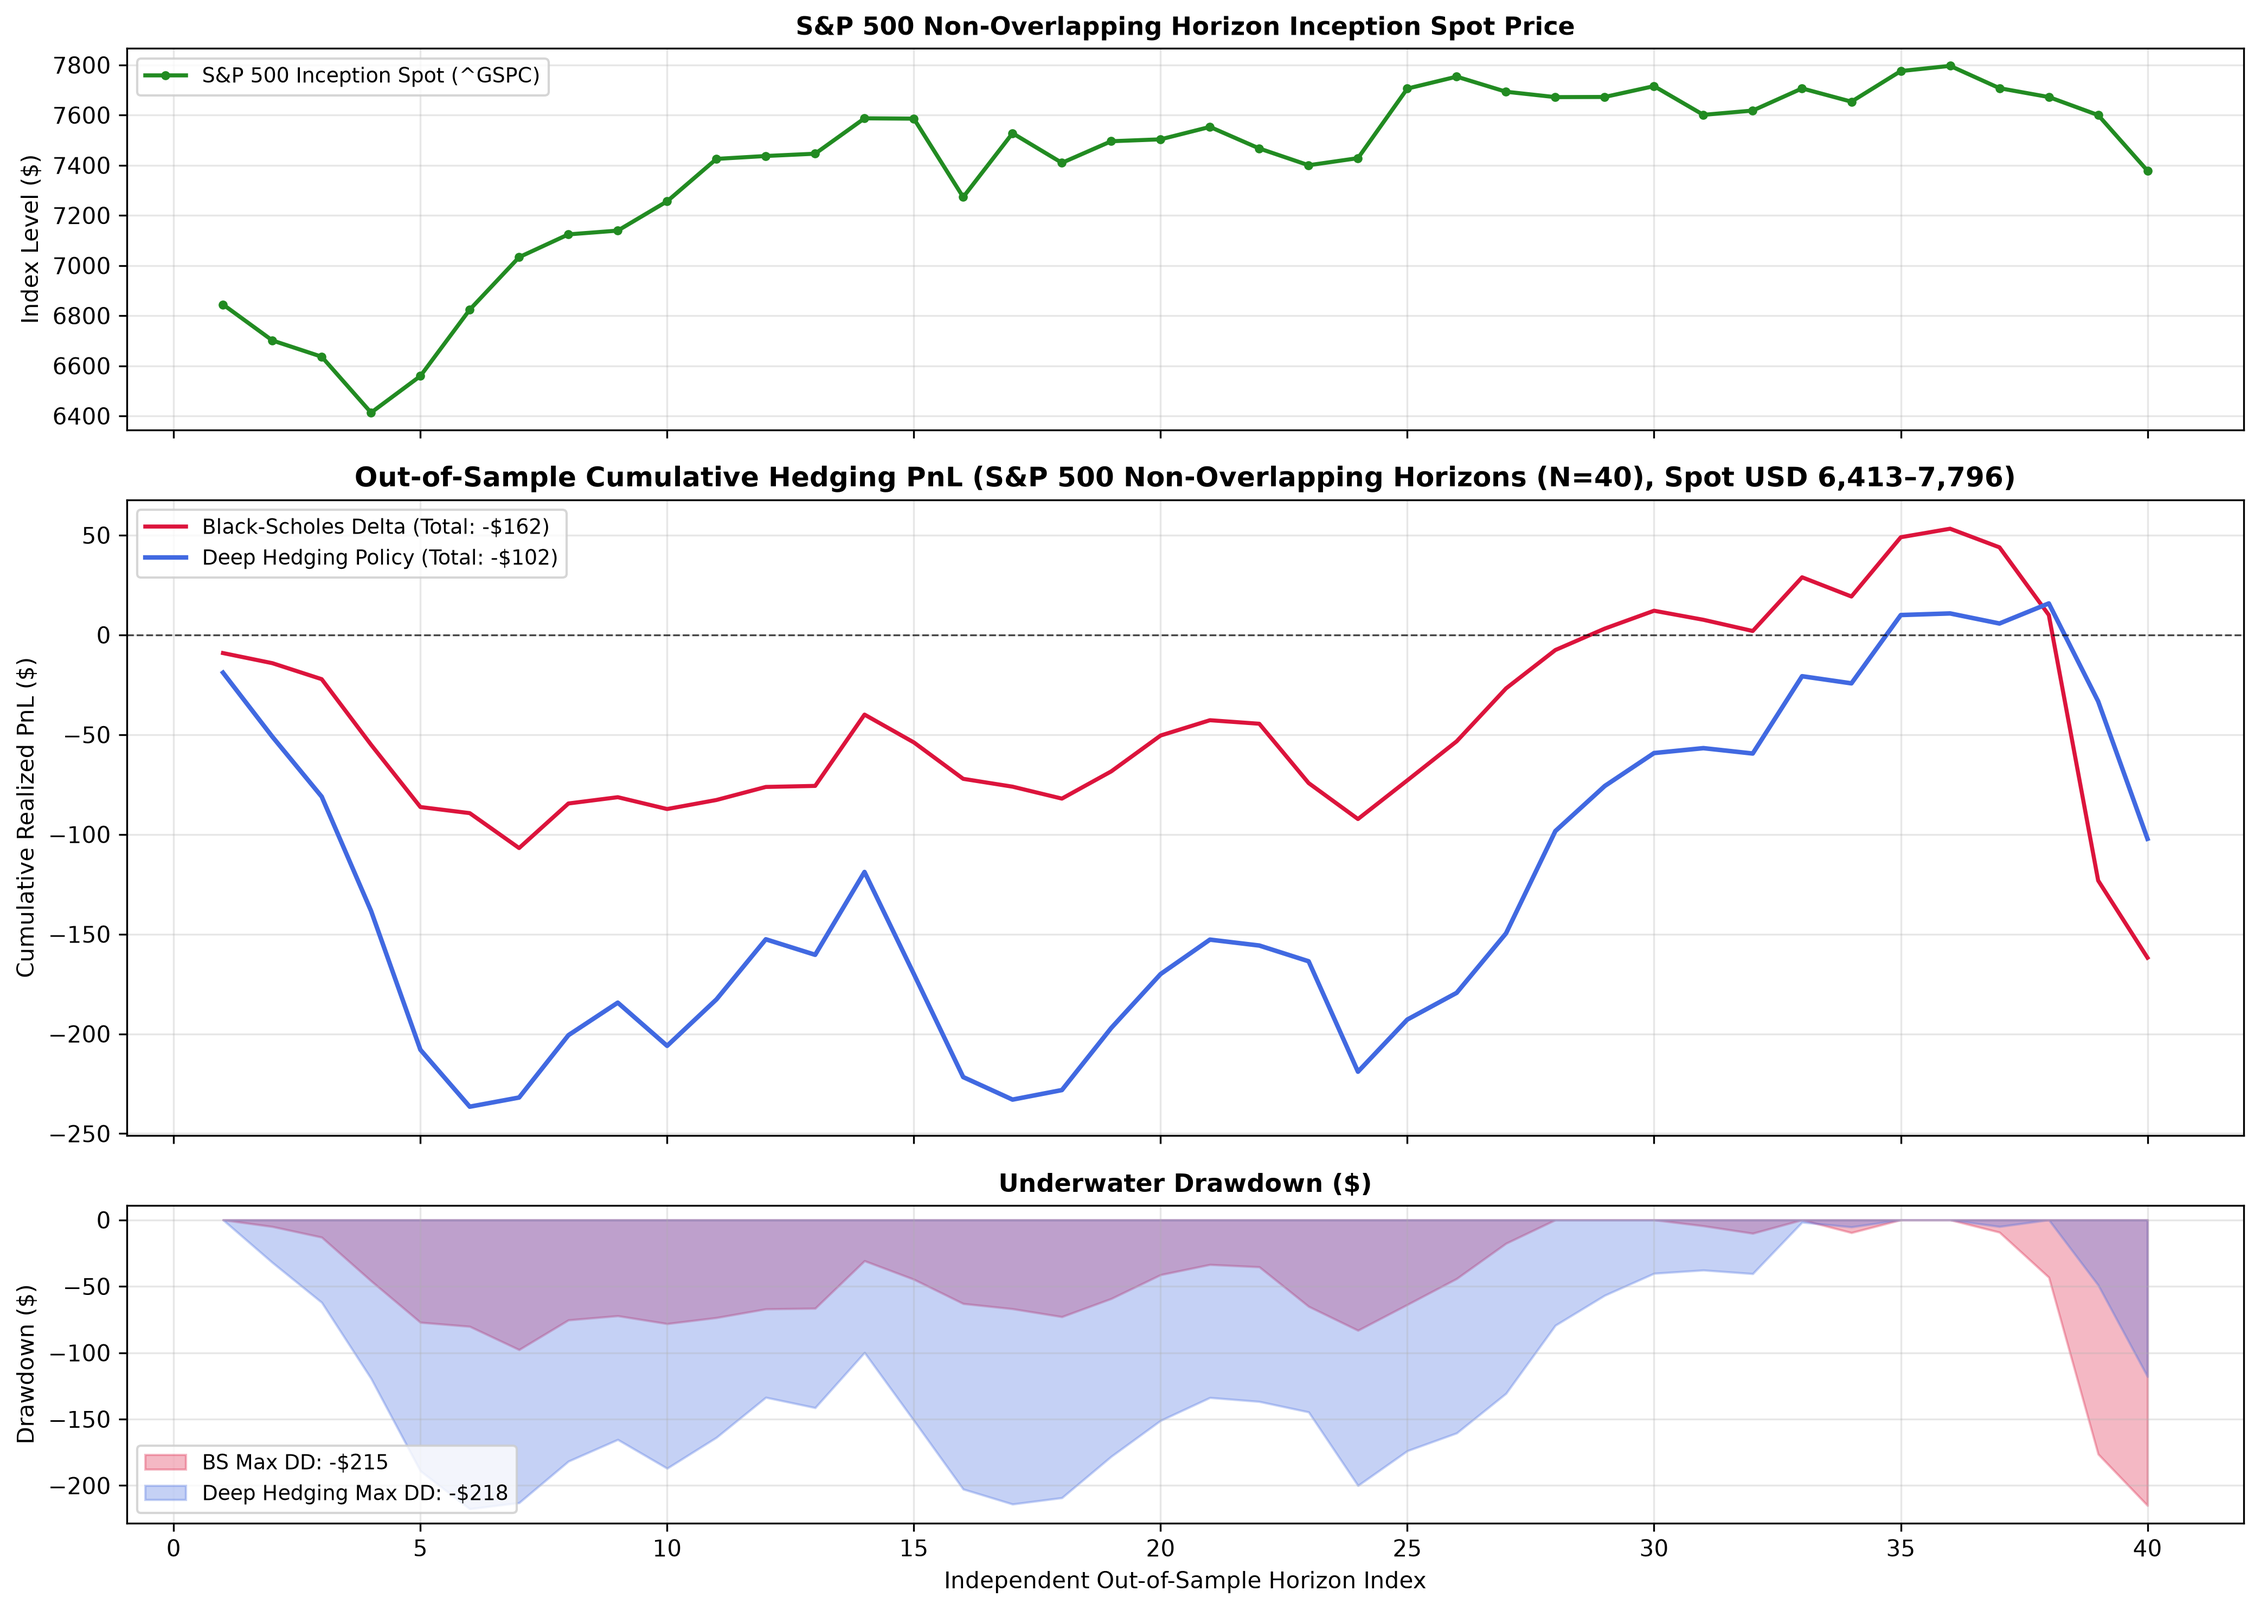
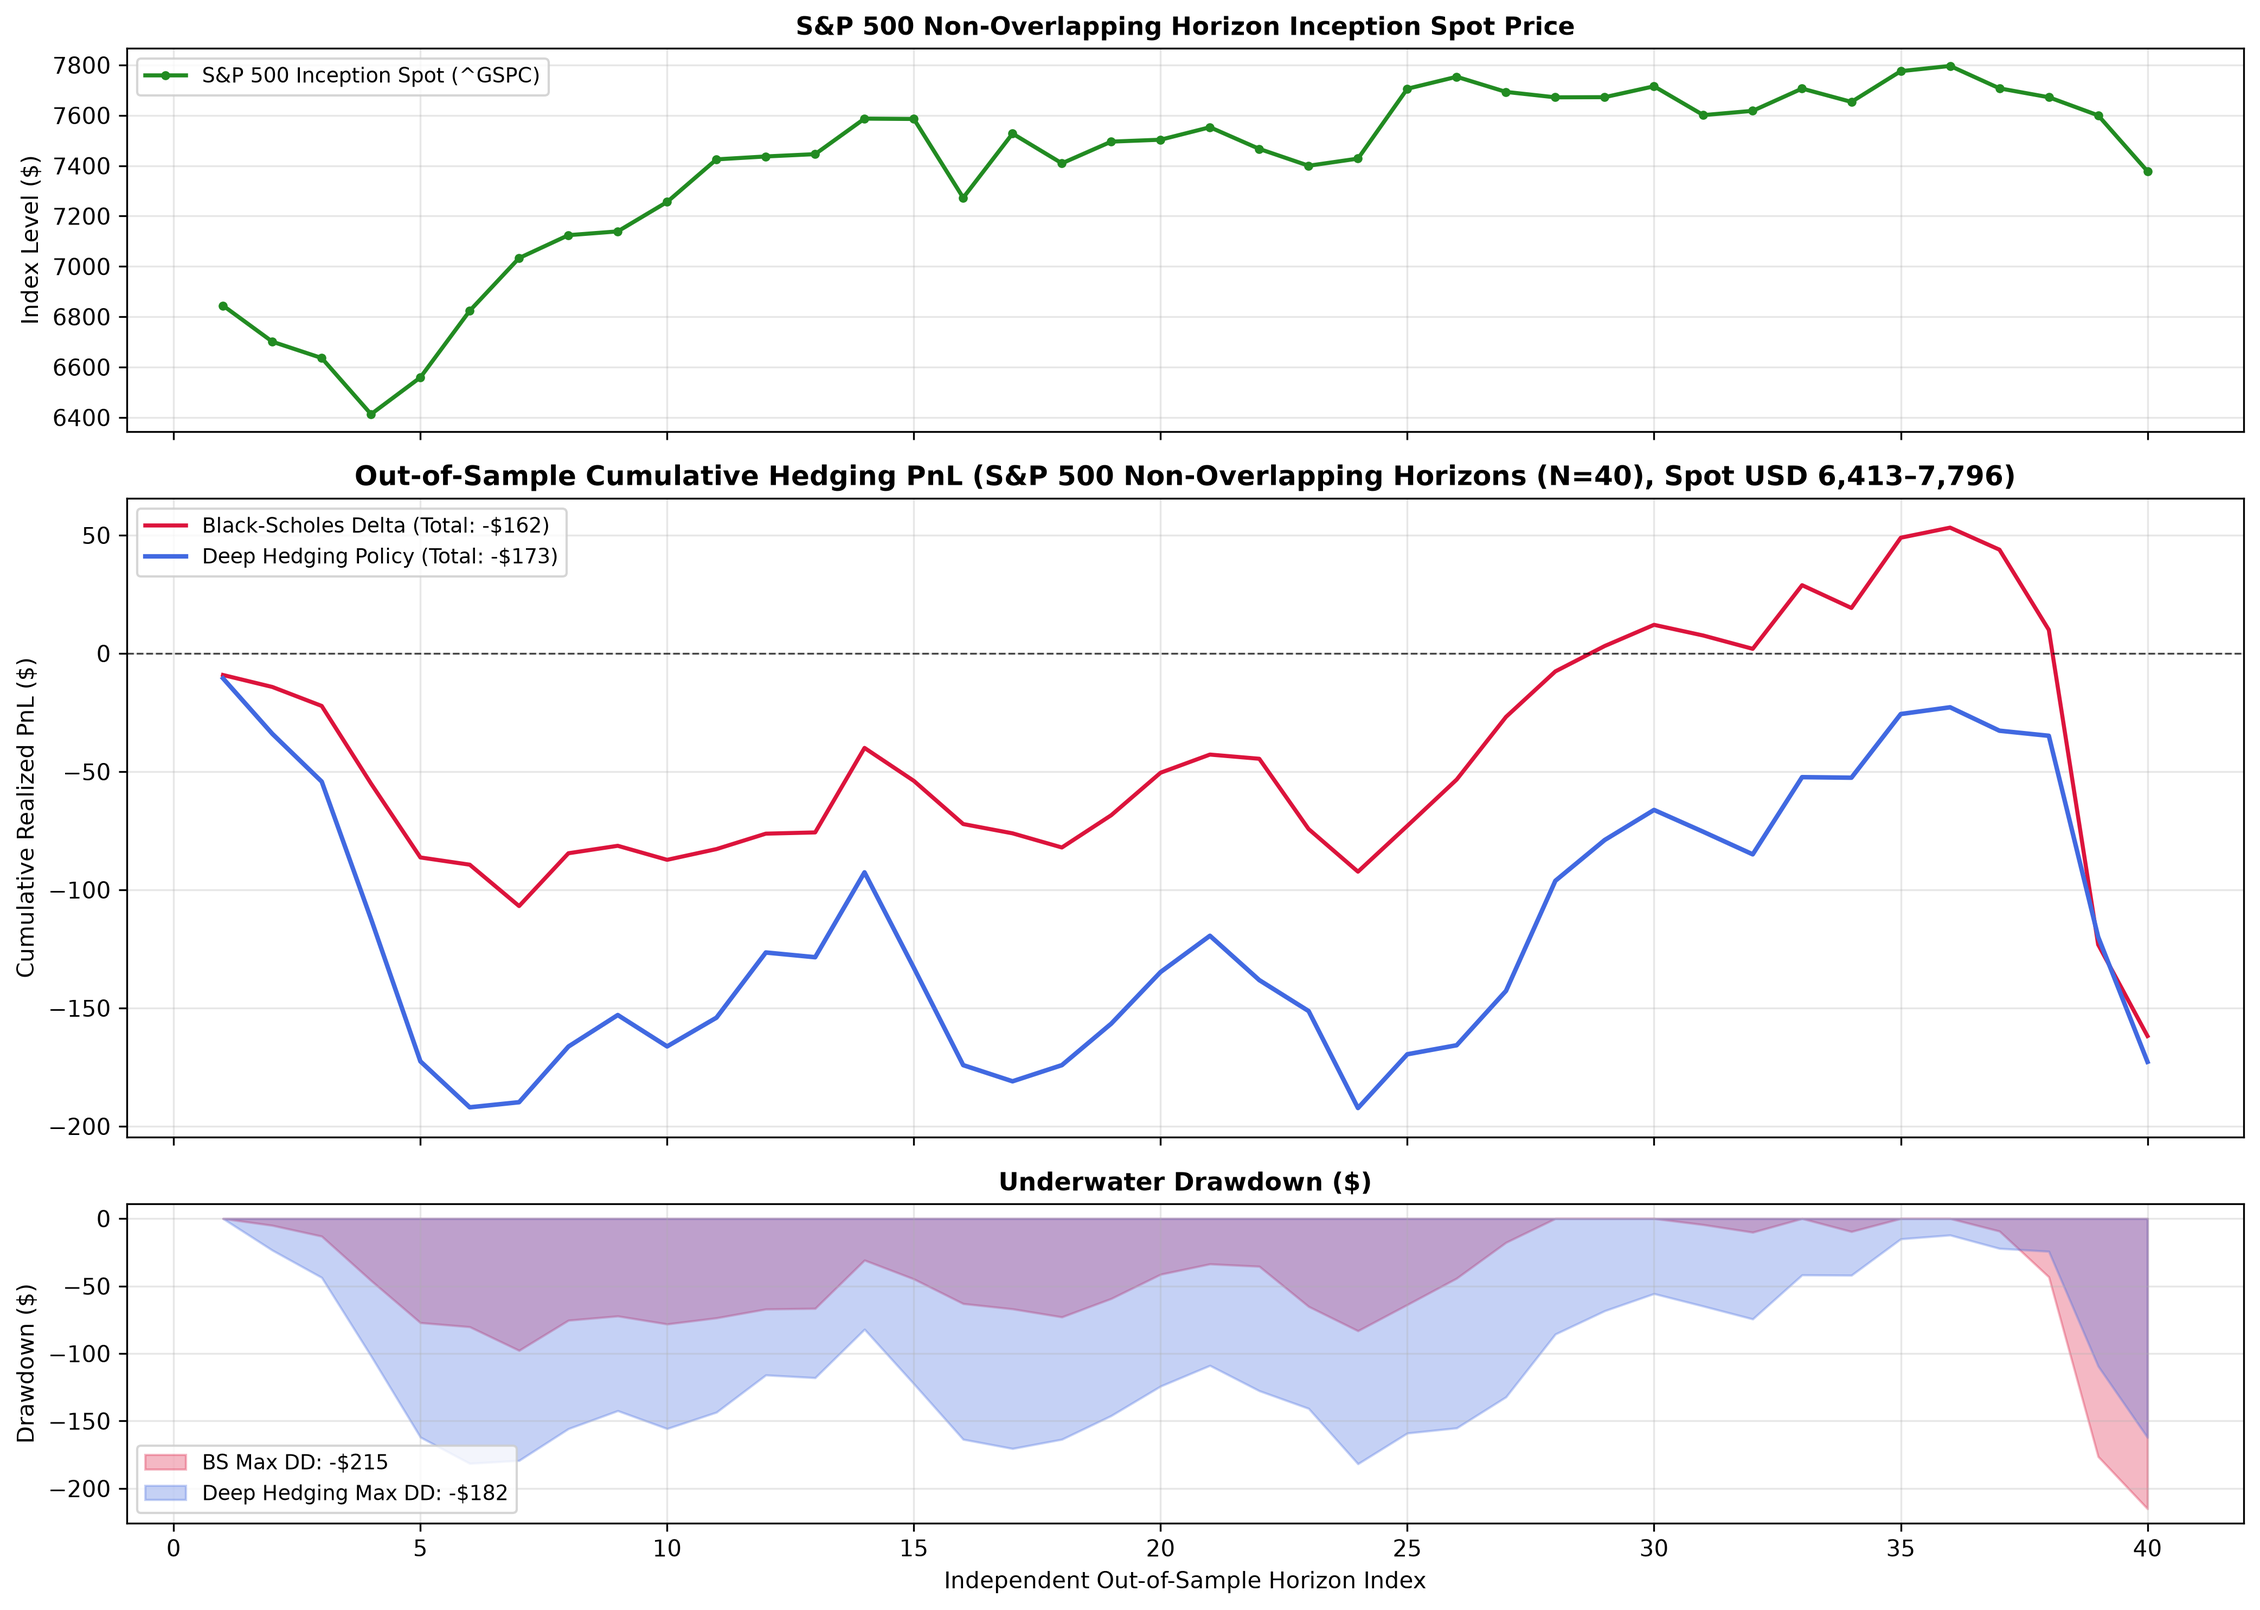
added decoupled weight decay in adam and mean-variance cvar hedging loss, and updated README and plots

diff --git a/src/main.cpp b/src/main.cpp
@@ -82,23 +82,41 @@ DeviceDatasetBuffers generate_sim_dataset(const SimulationParams& base_params, i
 int main(int argc, char** argv) {
     try {
         bool sim_mode = false;
+        bool skip_test = false;
         float custom_cost_ratio = 0.0010f;
-        HedgingLossType loss_type = HedgingLossType::EntropicRisk;
-        float risk_aversion = 4.0f;
+        HedgingLossType loss_type = HedgingLossType::MeanVarCvar;
+        float risk_aversion = 2.0f;
+        float lambda_cvar = 0.25f;
+        float weight_decay = 0.05f;
+        float initial_lr = 0.0005f;
 
         for (int i = 1; i < argc; ++i) {
             std::string arg = argv[i];
             if (arg == "--sim") {
                 sim_mode = true;
+            } else if (arg == "--skip-test") {
+                skip_test = true;
             } else if (arg == "--no-cost") {
                 custom_cost_ratio = 0.0f;
             } else if (arg == "--cost" && i + 1 < argc) {
                 custom_cost_ratio = std::stof(argv[++i]);
             } else if (arg == "--loss" && i + 1 < argc) {
                 std::string lstr = argv[++i];
-                loss_type = (lstr == "centered") ? HedgingLossType::CenteredVarCvar : HedgingLossType::EntropicRisk;
+                if (lstr == "centered") {
+                    loss_type = HedgingLossType::CenteredVarCvar;
+                } else if (lstr == "entropic") {
+                    loss_type = HedgingLossType::EntropicRisk;
+                } else {
+                    loss_type = HedgingLossType::MeanVarCvar;
+                }
             } else if (arg == "--gamma" && i + 1 < argc) {
                 risk_aversion = std::stof(argv[++i]);
+            } else if (arg == "--lambda" && i + 1 < argc) {
+                lambda_cvar = std::stof(argv[++i]);
+            } else if (arg == "--wd" && i + 1 < argc) {
+                weight_decay = std::stof(argv[++i]);
+            } else if (arg == "--lr" && i + 1 < argc) {
+                initial_lr = std::stof(argv[++i]);
             }
         }
 
@@ -270,12 +288,11 @@ int main(int argc, char** argv) {
         };
 
         AdamParams adam_params;
-        float initial_lr = 0.0015f;
+        adam_params.weight_decay = weight_decay;
         float min_lr = 0.00005f;
 
         float cvar_alpha = 0.95f;
         float cvar_eps = 0.02f;
-        float lambda_cvar = 0.50f;
         bool use_hybrid = true;
 
         // evaluate Black-Scholes baseline on train and validation splits
@@ -314,10 +331,14 @@ int main(int argc, char** argv) {
         init_optimizer_weights(weights);
 
         if (loss_type == HedgingLossType::EntropicRisk) {
-            std::cout << "training MLP with cash-invariant entropic risk (gamma=" << risk_aversion << ")..." << std::endl;
+            std::cout << "training MLP with cash-invariant entropic risk (gamma=" << risk_aversion
+                      << ", wd=" << weight_decay << ")..." << std::endl;
+        } else if (loss_type == HedgingLossType::MeanVarCvar) {
+            std::cout << "training MLP with cash-invariant MeanVarCvar (Var + " << lambda_cvar
+                      << " * smooth RU-CVaR@" << cvar_alpha * 100 << "%, wd=" << weight_decay << ")..." << std::endl;
         } else {
-            std::cout << "training MLP with shift-invariant loss (Var + " << lambda_cvar
-                      << " * smooth RU-CVaR@" << cvar_alpha * 100 << "%)..." << std::endl;
+            std::cout << "training MLP with shift-invariant CenteredVarCvar (Var + " << lambda_cvar
+                      << " * smooth RU-CVaR@" << cvar_alpha * 100 << "%, wd=" << weight_decay << ")..." << std::endl;
         }
 
         int num_epochs = 2000;
@@ -401,6 +422,32 @@ int main(int argc, char** argv) {
         CUDA_CHECK(cudaMemcpy(d_b2.get(), best_b2.data(), best_b2.size() * sizeof(float), cudaMemcpyHostToDevice));
         CUDA_CHECK(cudaMemcpy(d_W3.get(), best_W3.data(), best_W3.size() * sizeof(float), cudaMemcpyHostToDevice));
         CUDA_CHECK(cudaMemcpy(d_b3.get(), best_b3.data(), best_b3.size() * sizeof(float), cudaMemcpyHostToDevice));
+
+        // summarize held-out validation performance at restored checkpoint
+        forward_pass(val_buf.d_paths.get(), val_buf.d_policy_deltas.get(), weights, val_buf.params);
+        evaluate_portfolio(
+            val_buf.d_paths.get(), val_buf.d_payoffs.get(), val_buf.d_policy_deltas.get(),
+            val_buf.d_portfolio.get(), val_buf.params
+        );
+        CUDA_CHECK(cudaMemcpy(h_val_portfolio.data(), val_buf.d_portfolio.get(),
+                              val_buf.params.num_paths * sizeof(float), cudaMemcpyDeviceToHost));
+        HedgingLossStats policy_val_stats = compute_hedging_loss_stats(
+            h_val_portfolio, cvar_alpha, cvar_eps, lambda_cvar, use_hybrid, loss_type, risk_aversion
+        );
+        std::cout << "val BS      | mean=" << bs_val_stats.mean_v
+                  << ", std=" << std::sqrt(bs_val_stats.variance)
+                  << ", var=" << bs_val_stats.variance
+                  << ", cvar=" << bs_val_stats.ru_cvar
+                  << ", loss=" << bs_val_stats.total_loss << std::endl;
+        std::cout << "val Policy  | mean=" << policy_val_stats.mean_v
+                  << ", std=" << std::sqrt(policy_val_stats.variance)
+                  << ", var=" << policy_val_stats.variance
+                  << ", cvar=" << policy_val_stats.ru_cvar
+                  << ", loss=" << policy_val_stats.total_loss << std::endl;
+
+        if (skip_test) {
+            return 0;
+        }
 
         export_hedging_surface("../results/hedging_surface.csv", weights, params);
 

diff --git a/README.md b/README.md
@@ -27,8 +27,8 @@ cd .. && python scripts/analysis.py
 ## Methodology & Quantitative Calibration
 
 - **Equity Horizon & Volatility Calibration**: Uses 1-hour `^GSPC` bars (`5,007` candles over `720d`, observed mean `6.95` bars/trading day, modeled at `252 * 7 = 1,764` bars/year) over `num_steps = 30` (`29` intervals, `dt = 1 / 1764` yr, `T = 29 * dt = 0.01644` yr). Annualized volatility (`sigma = 0.1623`) is estimated strictly on the training split, and the ATM call (`S0 = K = 100`, `r = 0.04`, `10 bps` proportional fee) is priced via analytical Black-Scholes (`C0 = 0.8633`) with no empirical payoff leakage.
-- **Leakage-Free Data Splits & Validation Checkpointing**: Raw prices are split chronologically *before* windowing with `>= 30`-bar purges between splits (`train`: `3,004` bars -> `2,975` rolling windows; `val`: `721` bars -> `692` rolling windows; `test`: `1,222` bars -> `40` strictly non-overlapping 30-bar horizons, inception spots `$6,413–$7,796`). Model weights are checkpointed by out-of-sample validation loss (`best_epoch = 50`, `best_val_loss = 0.1827`).
-- **Unified Portfolio Accounting & Objective**: Both `compute_portfolio` and `compute_portfolio_trajectories` accrue risk-free cash over the `29` active intervals (`exp(r * T)` total), rebalance only at `t = 0 .. 28`, avoid rebalancing at expiry `t = 29`, liquidate incoming shares at `S_T` with consistent proportional fees, and mark inception `V_0 = -fee_0` at `t = 0`. Inputs are zero-centered and standardized (`normalize_state_features`) with prior-blended rolling volatility at `t = 0, 1`. Training minimizes cash-invariant entropic risk (`gamma = 4.0`, `1/gamma * log E[exp(-gamma * V_T)]`) so gradients are invariant to initial cash shifts without exploiting equity drift (`--loss centered` is also supported for centered variance + smooth Rockafellar-Uryasev CVaR).
+- **Leakage-Free Data Splits & Validation Checkpointing**: Raw prices are split chronologically *before* windowing with `>= 30`-bar purges between splits (`train`: `3,004` bars -> `2,975` rolling windows; `val`: `721` bars -> `692` rolling windows; `test`: `1,222` bars -> `40` strictly non-overlapping 30-bar horizons, inception spots `$6,413–$7,796`). Model weights are checkpointed by out-of-sample validation loss (`best_epoch = 110`, `best_val_loss = 0.2349`).
+- **Unified Portfolio Accounting & Objective**: Both `compute_portfolio` and `compute_portfolio_trajectories` accrue risk-free cash over the `29` active intervals (`exp(r * T)` total), rebalance only at `t = 0 .. 28`, avoid rebalancing at expiry `t = 29`, liquidate incoming shares at `S_T` with consistent proportional fees, and mark inception `V_0 = -fee_0` at `t = 0`. Inputs are zero-centered and standardized (`normalize_state_features`) with prior-blended rolling volatility at `t = 0, 1`. Training uses AdamW (`weight_decay = 0.05`, `lr = 0.0005` cosine-annealed) minimizing a cash-invariant variance + smooth Rockafellar-Uryasev CVaR objective (`MeanVarCvar`: `Var(V_T) + 0.25 * smooth RU-CVaR@95%(-V_T)`), penalizing both tracking variance and transaction cost bleed without exploiting equity drift (`--loss entropic` and `--loss centered` are also supported).
 - **CUDA & Build Hardening**: Warp reductions in `bptt_backward` execute uniformly across all 32 lanes with mask `0xFFFFFFFF` (`active ? local_val : 0.0f`), preventing tail-warp undefined behavior when `num_paths % 32 != 0`. `CMakeLists.txt` defaults to `Release` (`-O3`), and all constant-memory copies and kernel launches are guarded by `CUDA_CHECK` / `CUDA_CHECK_KERNEL()`.
 
 ## Performance Comparison
@@ -39,29 +39,31 @@ All PnL figures below are in normalized contract units (`S0 = K = 100`); `analys
 
 | Metric | Black-Scholes Delta | Deep Hedging Policy |
 | :--- | :--- | :--- |
-| **Mean PnL** | -0.0595 | -0.0469 |
-| **Median PnL** | -0.0485 | 0.0214 |
-| **Std Dev** | 0.3677 | 0.4466 |
-| **Variance** | 0.1352 | 0.1994 |
-| **Sharpe Ratio** | -0.1617 | -0.1051 |
-| **Sortino Ratio** | -0.1314 | -0.0868 |
-| **Win Rate (%)** | 45.0000 | 52.5000 |
-| **95% VaR** | -0.5129 | -0.8950 |
-| **95% CVaR (Expected Shortfall)** | -1.1380 | -0.9976 |
-| **99% VaR** | -1.2729 | -1.0116 |
-| **99% CVaR** | -1.7513 | -1.0611 |
-| **Entropic Risk ($\gamma = 4.0$)** | 0.8444 | 0.4626 |
-| **Mean MSE** | 0.1387 | 0.2016 |
-| **Max Trajectory DD** | -0.0626 | -0.0750 |
+| **Mean PnL** | -0.0595 | -0.0679 |
+| **Median PnL** | -0.0485 | -0.0149 |
+| **Std Dev** | 0.3677 | 0.3971 |
+| **Variance** | 0.1352 | 0.1577 |
+| **Sharpe Ratio** | -0.1617 | -0.1710 |
+| **Sortino Ratio** | -0.1314 | -0.1414 |
+| **Win Rate (%)** | 45.0000 | 47.5000 |
+| **95% VaR** | -0.5129 | -0.9072 |
+| **95% CVaR (Expected Shortfall)** | -1.1380 | -1.0185 |
+| **99% VaR** | -1.2729 | -1.0407 |
+| **99% CVaR** | -1.7513 | -1.1194 |
+| **MeanVarCvar Loss** | 0.4198 | 0.4124 |
+| **Mean MSE** | 0.1387 | 0.1623 |
+| **Max Trajectory DD** | -0.0626 | -0.0813 |
 
-**Takeaway**: Under entropic risk ($\gamma = 4.0$), the learned policy smooths the near-expiry gamma cliff to reduce turnover and improve extreme left-tail outcomes (`95% CVaR` `-0.9976` vs `-1.1380`, `99% CVaR` `-1.0611` vs `-1.7513`, `Entropic Risk` `0.4626` vs `0.8444`), while calibrated Black-Scholes Delta retains lower overall tracking dispersion (`Std Dev` `0.3677` vs `0.4466`, `Mean MSE` `0.1387` vs `0.2016`) across the `40` non-overlapping horizons.
+**Held-Out Validation Split (`N = 692` windows)**: Deep Hedging improved over BS across all validation metrics (`Mean PnL`: `+0.0302` vs `-0.0657`; `Std Dev`: `0.2924` vs `0.3423`; `Variance`: `0.0855` vs `0.1171`; `RU-CVaR@95%`: `0.5978` vs `1.1363`; `Total Loss`: `0.2349` vs `0.4012`).
+
+**Test Takeaway**: On the `40` strictly non-overlapping test horizons, Deep Hedging improves median PnL (`-0.0149` vs `-0.0485`), win rate (`47.5%` vs `45.0%`), left-tail `95% CVaR` (`-1.0185` vs `-1.1380`), `99% CVaR` (`-1.1194` vs `-1.7513`), dollar max drawdown (`-$182` vs `-$215`), and overall `MeanVarCvar` loss (`0.4124` vs `0.4198`), while calibrated Black-Scholes Delta retains slightly tighter central tracking dispersion (`Std Dev` `0.3677` vs `0.3971`, `Mean MSE` `0.1387` vs `0.1623`).
 
 ### Simulated GBM Verification (`./deep_hedger --sim`, `N = 8,192` Test Paths, `sigma = 0.20`, `T = 29/252` yr)
 
-| Cost Regime | Strategy | Mean PnL | Std Dev | Variance | Entropic Risk ($\gamma = 4.0$) |
+| Cost Regime | Strategy | Mean PnL | Std Dev | Variance | MeanVarCvar Loss |
 | :--- | :--- | :--- | :--- | :--- | :--- |
-| **10 bps fee** | Black-Scholes Delta | -0.2799 | 0.4544 | 0.2065 | 1.2112 |
-| **10 bps fee** | Deep Hedging Policy | -0.2435 | 0.5312 | 0.2822 | 0.8259 |
+| **10 bps fee** | Black-Scholes Delta | -0.2799 | 0.4544 | 0.2065 | 0.5545 |
+| **10 bps fee** | Deep Hedging Policy | -0.2659 | 0.4640 | 0.2153 | 0.5345 |
 
 ## Visualizations
 
